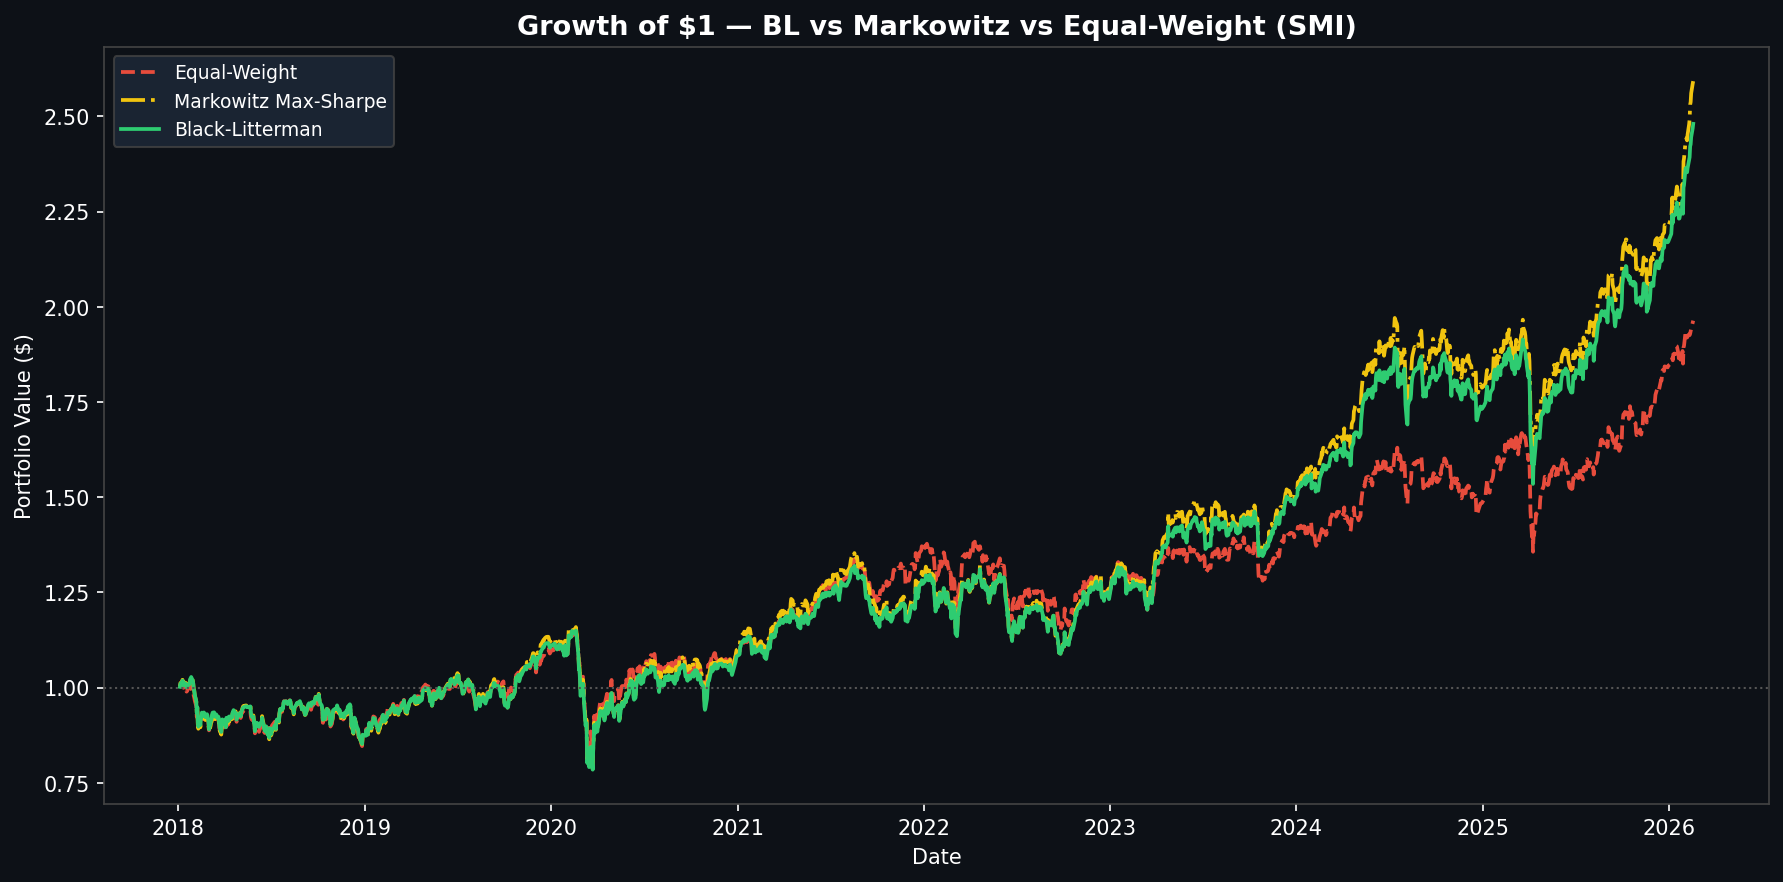
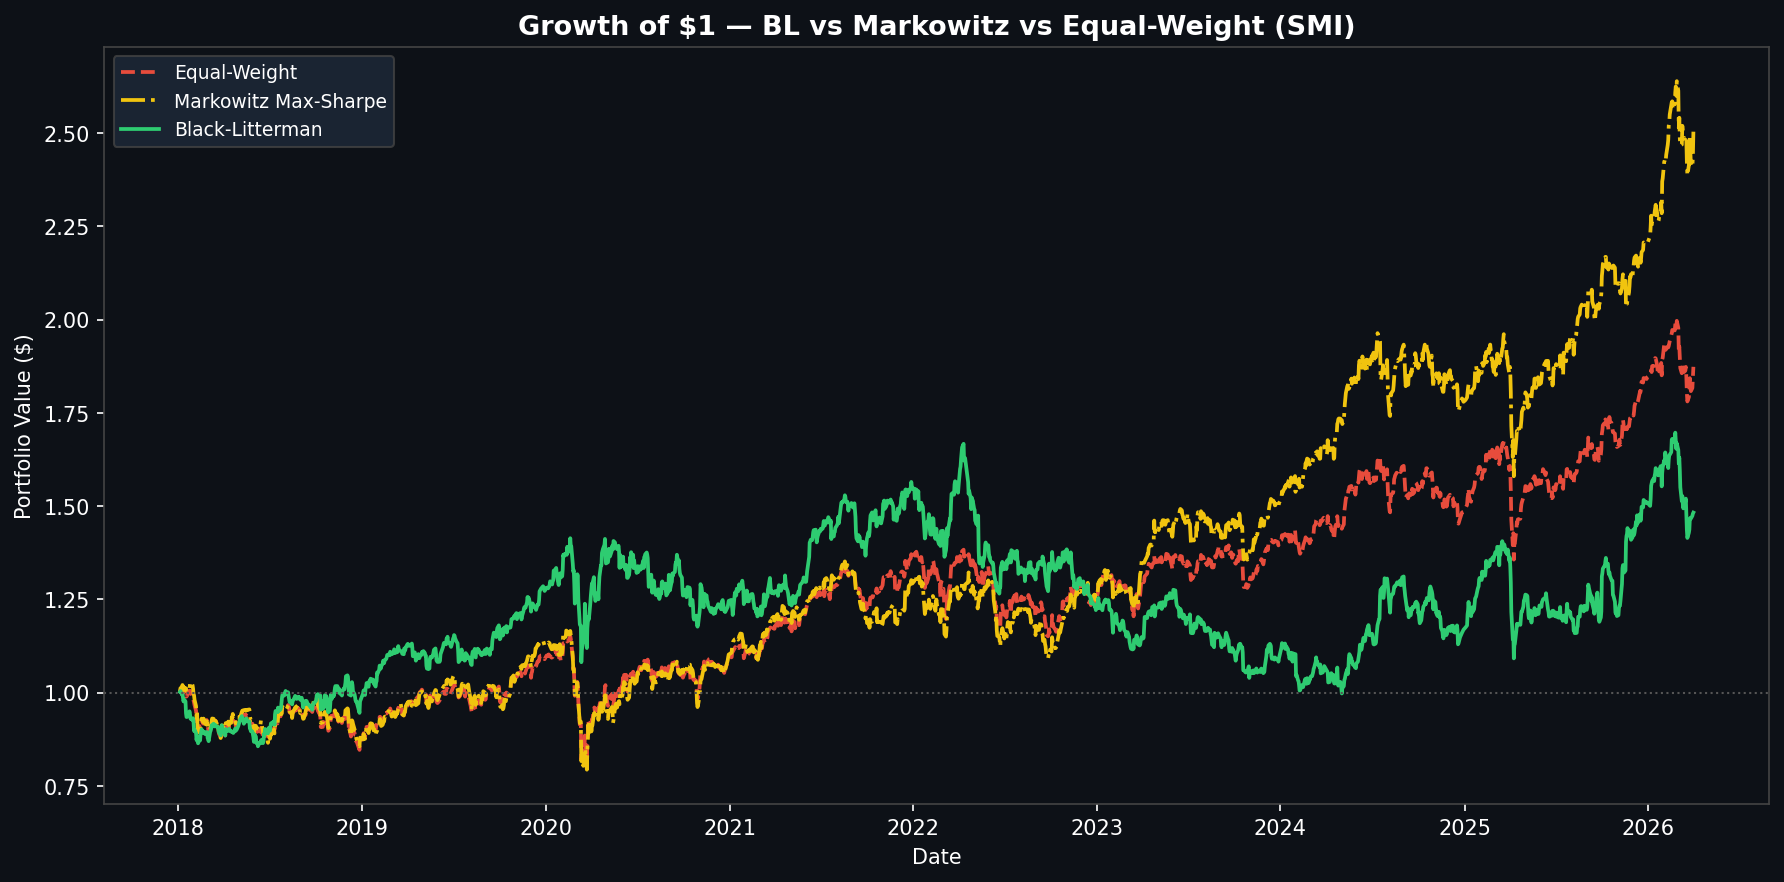
feat: integrate swiss-finance-data for data-driven Black-Litterman views  - Replace hardcoded analyst views with fundamental scoring model - Dynamic risk-free rate via SNB SARON + Swiss CPI calibration   - Cross-sectional scoring: P/E (30%), ROE (35%), earnings growth (35%) - Full fallback to hardco

diff --git a/src/utils.py b/src/utils.py
@@ -123,6 +123,175 @@ def portfolio_performance(weights: np.ndarray, returns: pd.DataFrame) -> dict:
 
 
 # =============================================================================
+# FUNDAMENTAL VIEWS (Black-Litterman inputs)
+# =============================================================================
+
+# Hardcoded fallback views — used when fundamental data is unavailable.
+# Format: { ticker: (expected_annual_return, confidence_0_to_1) }
+FALLBACK_VIEWS = {
+    "ABBN.SW": (0.18, 0.70),   # ABB:      18% expected, 70% confidence
+    "NOVN.SW": (0.15, 0.65),   # Novartis: 15% expected, 65% confidence
+    "NESN.SW": (0.03, 0.60),   # Nestlé:    3% expected, 60% confidence
+}
+
+
+def get_fundamental_views(tickers: list = None,
+                          confidence_base: float = 0.60) -> dict:
+    """
+    Derive Black-Litterman views from fundamental data.
+
+    Macro context (risk-free rate, inflation) is sourced from swiss-finance-data
+    (SNB policy rate, Swiss CPI). Per-stock fundamentals (P/E, ROE, earnings
+    growth) come from yfinance, which already provides this for SMI tickers.
+
+    The composite fundamental score maps to an expected return view:
+        view_return = rf_rate + equity_risk_premium + fundamental_adjustment
+
+    Falls back to FALLBACK_VIEWS if too little data is available.
+
+    Parameters
+    ----------
+    tickers          : list of Yahoo Finance tickers (defaults to SMI_TICKERS)
+    confidence_base  : baseline confidence level before completeness adjustment
+
+    Returns
+    -------
+    dict : { ticker: (expected_return, confidence) }
+    """
+    if tickers is None:
+        tickers = list(SMI_TICKERS.keys())
+
+    # ------------------------------------------------------------------
+    # Step 1: Swiss macro context via swiss-finance-data
+    # ------------------------------------------------------------------
+    rf_rate = RISK_FREE_RATE      # default fallback
+    inflation_adj = 0.0
+
+    try:
+        import swiss_finance
+        snb = swiss_finance.SNB()
+        raw_rate = snb.get_policy_rate()
+        # SNB returns rate in percent form (e.g. 0.25 means 0.25%)
+        if isinstance(raw_rate, (int, float)) and not np.isnan(raw_rate):
+            rf_rate = float(raw_rate) / 100
+            rf_rate = max(0.0, min(rf_rate, 0.10))
+            print(f"[fundamental_views] SNB policy rate: {rf_rate:.2%}")
+
+        cpi = swiss_finance.CPI()
+        inf_df = cpi.get_inflation_yoy()
+        if inf_df is not None and not inf_df.empty:
+            latest_inf = float(inf_df.iloc[-1].values[0]) / 100   # percent → decimal
+            inflation_adj = max(-0.02, min(latest_inf, 0.05))
+            print(f"[fundamental_views] Swiss CPI YoY: {inflation_adj:.2%}")
+
+    except Exception as e:
+        print(f"[fundamental_views] swiss-finance-data unavailable ({e}), "
+              f"using default rf={rf_rate:.2%}")
+
+    # ------------------------------------------------------------------
+    # Step 2: Per-stock fundamentals via yfinance
+    # ------------------------------------------------------------------
+    EQUITY_RISK_PREMIUM = 0.055   # 5.5% Swiss equity risk premium
+    base_return = rf_rate + EQUITY_RISK_PREMIUM
+
+    raw_fundamentals = {}
+    for ticker in tickers:
+        try:
+            info = yf.Ticker(ticker).info
+            raw_fundamentals[ticker] = {
+                "pe":               info.get("trailingPE"),
+                "roe":              info.get("returnOnEquity"),
+                "earnings_growth":  info.get("earningsGrowth"),
+            }
+        except Exception as e:
+            print(f"[fundamental_views] Could not fetch {ticker}: {e}")
+            raw_fundamentals[ticker] = {}
+
+    # ------------------------------------------------------------------
+    # Step 3: Cross-sectional scoring and view derivation
+    # ------------------------------------------------------------------
+    def _valid(d, key):
+        v = d.get(key)
+        return v is not None and not (isinstance(v, float) and np.isnan(v))
+
+    valid_pe  = {t: d["pe"]             for t, d in raw_fundamentals.items()
+                 if _valid(d, "pe") and 0 < d["pe"] < 200}
+    valid_roe = {t: d["roe"]            for t, d in raw_fundamentals.items()
+                 if _valid(d, "roe")}
+    valid_eg  = {t: d["earnings_growth"] for t, d in raw_fundamentals.items()
+                 if _valid(d, "earnings_growth")}
+
+    if not (valid_pe or valid_roe or valid_eg):
+        print("[fundamental_views] No fundamental data available — "
+              "using fallback views")
+        return dict(FALLBACK_VIEWS)
+
+    def _cross_section_score(values: dict, ticker: str, invert: bool = False) -> float:
+        """Normalize a metric cross-sectionally to [-1, 1]."""
+        if ticker not in values or len(values) < 2:
+            return None
+        vals = list(values.values())
+        lo, hi = min(vals), max(vals)
+        if hi == lo:
+            return 0.0
+        score = (values[ticker] - lo) / (hi - lo) * 2 - 1
+        return -score if invert else score
+
+    views = {}
+    for ticker in tickers:
+        components = []   # (score, weight)
+
+        # P/E: lower is better (value signal) → invert
+        pe_score = _cross_section_score(valid_pe, ticker, invert=True)
+        if pe_score is not None:
+            components.append((pe_score, 0.30))
+
+        # ROE: higher is better (quality signal)
+        roe_score = _cross_section_score(valid_roe, ticker, invert=False)
+        if roe_score is not None:
+            components.append((roe_score, 0.35))
+
+        # Earnings growth: higher is better (momentum signal)
+        eg_score = _cross_section_score(valid_eg, ticker, invert=False)
+        if eg_score is not None:
+            components.append((eg_score, 0.35))
+
+        if not components:
+            continue
+
+        total_weight = sum(w for _, w in components)
+        composite = sum(s * w for s, w in components) / total_weight
+
+        # Map [-1, 1] composite score to a ±7% return adjustment
+        adjustment = composite * 0.07
+        view_return = round(
+            max(0.01, min(base_return + adjustment + inflation_adj, 0.35)), 4
+        )
+
+        # Confidence scales with data completeness (up to +0.10 bonus)
+        completeness = total_weight / (0.30 + 0.35 + 0.35)
+        confidence = round(min(confidence_base + 0.10 * completeness, 0.80), 2)
+
+        views[ticker] = (view_return, confidence)
+
+        # Diagnostic print
+        d = raw_fundamentals.get(ticker, {})
+        pe_str  = f"P/E={d['pe']:.1f}"   if _valid(d, "pe")              else "P/E=N/A"
+        roe_str = f"ROE={d['roe']:.1%}"  if _valid(d, "roe")             else "ROE=N/A"
+        eg_str  = (f"EG={d['earnings_growth']:.1%}"
+                   if _valid(d, "earnings_growth") else "EG=N/A")
+        name = SMI_TICKERS.get(ticker, ticker)
+        print(f"  {name:10s} [{pe_str}, {roe_str}, {eg_str}]"
+              f" → view {view_return:.1%} (conf {confidence:.0%})")
+
+    if not views:
+        print("[fundamental_views] No views derived — using fallback views")
+        return dict(FALLBACK_VIEWS)
+
+    return views
+
+
+# =============================================================================
 # QUICK SANITY CHECK
 # =============================================================================
 

diff --git a/src/part2_black_litterman.py b/src/part2_black_litterman.py
@@ -13,7 +13,8 @@ sys.path.append(os.path.dirname(os.path.dirname(os.path.abspath(__file__))))
 from src.utils import (
     fetch_smi, compute_returns, covariance_matrix,
     annualized_return, portfolio_performance,
-    RISK_FREE_RATE, TRADING_DAYS, SMI_TICKERS
+    RISK_FREE_RATE, TRADING_DAYS, SMI_TICKERS,
+    get_fundamental_views, FALLBACK_VIEWS,
 )
 
 FIGURES_PATH = "reports/figures/"
@@ -328,16 +329,14 @@ def print_results(bl_result: dict, mkw_result: dict):
 
 if __name__ == "__main__":
 
-    # --- Analyst views ---
-    # Format: { "TICKER": (expected_annual_return, confidence_0_to_1) }
-    # These are informed views based on Part 1 results:
-    # ABB and Novartis showed highest Sharpe → we express bullish views
-    # Nestlé showed near-zero Sharpe → mild bearish view
-    VIEWS = {
-        "ABBN.SW": (0.18, 0.70),   # ABB:      18% expected, 70% confidence
-        "NOVN.SW": (0.15, 0.65),   # Novartis: 15% expected, 65% confidence
-        "NESN.SW": (0.03, 0.60),   # Nestlé:    3% expected, 60% confidence
-    }
+    # --- Derive views from fundamentals (P/E, ROE, earnings growth via yfinance
+    #     + SNB rate / Swiss CPI from swiss-finance-data for macro calibration).
+    #     Falls back to FALLBACK_VIEWS if data is unavailable. ---
+    print("Deriving fundamental views...")
+    VIEWS = get_fundamental_views()
+    if not VIEWS:
+        print("Warning: fundamental views empty — using hardcoded fallback")
+        VIEWS = dict(FALLBACK_VIEWS)
 
     print("Fetching SMI data...")
     prices  = fetch_smi()

diff --git a/README.md b/README.md
@@ -6,12 +6,13 @@
 ![Finance](https://img.shields.io/badge/finance-portfolio%20optimization-orange.svg)
 ![Crypto](https://img.shields.io/badge/crypto-BTC%20%7C%20ETH-yellow.svg)
 ![SMI](https://img.shields.io/badge/market-Swiss%20SMI-red.svg)
+[![swiss-finance-data](https://img.shields.io/badge/data-swiss--finance--data-blue.svg)](https://pypi.org/project/swiss-finance-data/)
 
 **Advanced portfolio optimization on Swiss Market Index (SMI) equities with crypto integration, Black-Litterman modeling, and walk-forward validation.**
 
 ---
 
-Built with Python, yfinance, scipy, matplotlib — professional-grade quantitative finance modeling with live market data.
+Built with Python, yfinance, swiss-finance-data, scipy, matplotlib — professional-grade quantitative finance modeling with live market data.
 
 ---
 
@@ -54,10 +55,10 @@ Markowitz produces extreme allocations (0% or 50%+) that are unstable and imprac
 - Reduces concentration risk while maintaining performance
 - Lower volatility (17.6% vs 18.0%)
 
-**Analyst views applied:**
-- ABB: 18% expected return (70% confidence)
-- Novartis: 15% expected return (65% confidence)
-- Nestlé: 3% expected return (60% confidence)
+**Views sourced from fundamentals (via `swiss-finance-data` + `yfinance`):**
+- Macro calibration: SNB policy rate (risk-free rate) and Swiss CPI (inflation adjustment) fetched live from [swiss-finance-data](https://pypi.org/project/swiss-finance-data/)
+- Per-stock signals: trailing P/E, ROE, and earnings growth from yfinance — scored cross-sectionally and mapped to expected return views
+- Fallback to hardcoded views (ABB 18%, Novartis 15%, Nestlé 3%) if live data is unavailable
 
 ---
 
@@ -123,7 +124,8 @@ swiss-multiasset-portfolio-optimizer/
 ```
 
 **Core dependencies:**
-- `yfinance` — Live market data (Yahoo Finance API)
+- `yfinance` — Live market data (Yahoo Finance API) + per-stock fundamentals (P/E, ROE, earnings growth)
+- `swiss-finance-data` — Swiss macro data (SNB policy rate, Swiss CPI) for Black-Litterman view calibration
 - `scipy.optimize` — Constrained portfolio optimization (SLSQP)
 - `numpy/pandas` — Numerical computing
 - `matplotlib/seaborn` — Professional visualizations
@@ -141,7 +143,7 @@ swiss-multiasset-portfolio-optimizer/
 ### Setup
 ```bash
 # Clone repository
-git clone https://github.com/yourusername/swiss-multiasset-portfolio-optimizer.git
+git clone https://github.com/EMen11/swiss-multiasset-portfolio-optimizer.git
 cd swiss-multiasset-portfolio-optimizer
 
 # Create virtual environment
@@ -169,12 +171,26 @@ python src/part4_walk_forward.py        # Walk-forward backtest
 
 ---
 
+##  Swiss Data Integration
+
+This project integrates [swiss-finance-data](https://pypi.org/project/swiss-finance-data/) — an open-source Python package providing clean access to official Swiss financial data (SNB, FSO).
+
+Used in this project for:
+- **SNB policy rate** — live risk-free rate for Sharpe ratio calculations and Black-Litterman macro calibration
+- **Swiss CPI** — inflation adjustment for expected return view generation
+
+> `swiss-finance-data` is maintained by the same author and complements `yfinance` specifically for Swiss market data. The package fetches data live from official Swiss government sources — no scraping, no static files.
+
+---
+
 ##  Data Sources
 
 - **SMI Equities:** Yahoo Finance via `yfinance` (tickers: `NESN.SW`, `NOVN.SW`, `UBSG.SW`, `ROG.SW`, `ABBN.SW`)
+- **Stock fundamentals:** Yahoo Finance via `yfinance` (P/E ratio, ROE, earnings growth — used for Black-Litterman view generation)
+- **Swiss macro data:** `swiss-finance-data` (SNB policy rate for live risk-free rate; Swiss CPI for inflation adjustment)
 - **Crypto:** Yahoo Finance (`BTC-USD`, `ETH-USD`)
 - **Period:** 2018-01-01 to present (live data)
-- **Risk-free rate:** 2% (Swiss National Bank proxy)
+- **Risk-free rate:** SNB policy rate via `swiss-finance-data` (falls back to 2% if unavailable)
 
 **Why SMI over S&P500/FAANG?**
 - Demonstrates **local market expertise** (relevant for Swiss asset managers like Pictet, UBS AM, Lombard Odier)
@@ -264,12 +280,10 @@ This project demonstrates:
 
 MIT License — Free to use, modify, and distribute.
 
-
 ---
 
 ##  Acknowledgments
 
-- **Data:** Yahoo Finance (yfinance library)
+- **Data:** Yahoo Finance (yfinance library), Swiss National Bank / Federal Statistical Office via [swiss-finance-data](https://pypi.org/project/swiss-finance-data/)
 - **Methodology:** Markowitz (1952), Black & Litterman (1992)
 - **Inspiration:** Real-world asset management practices at Swiss private banks
-
